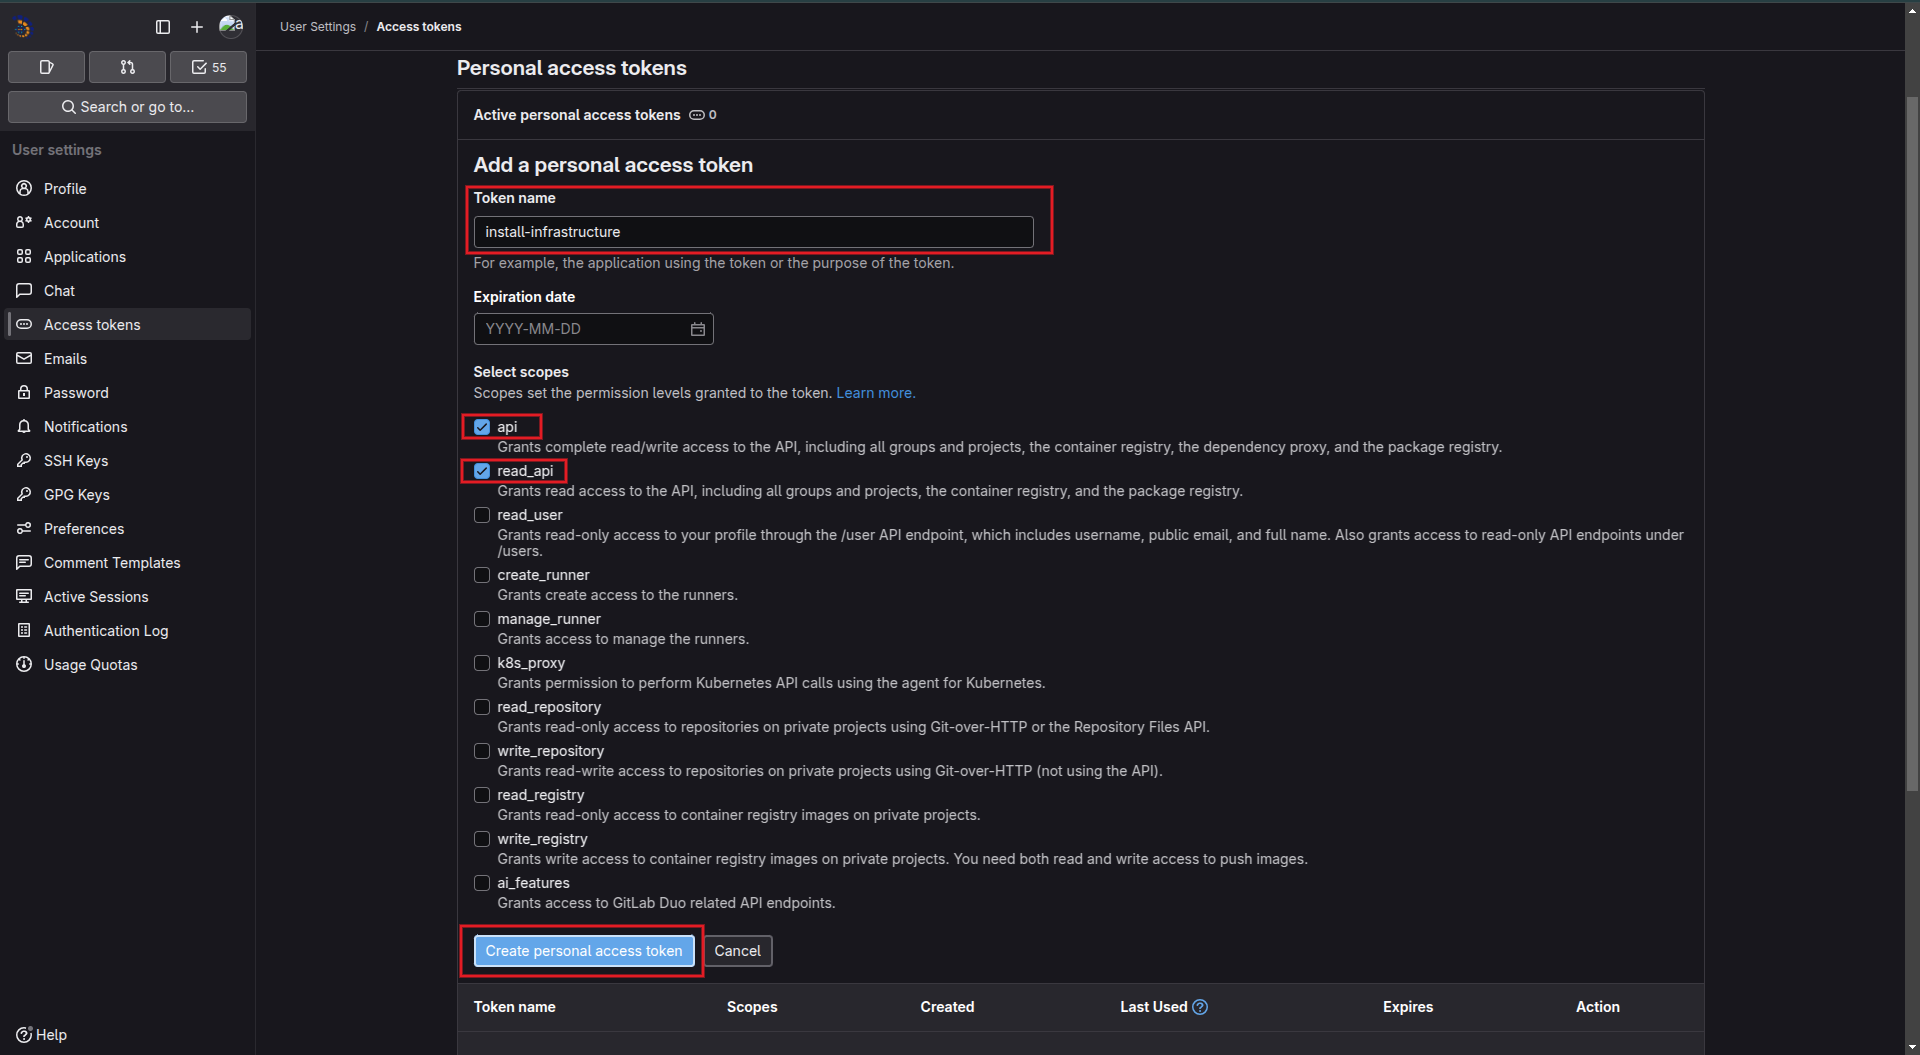
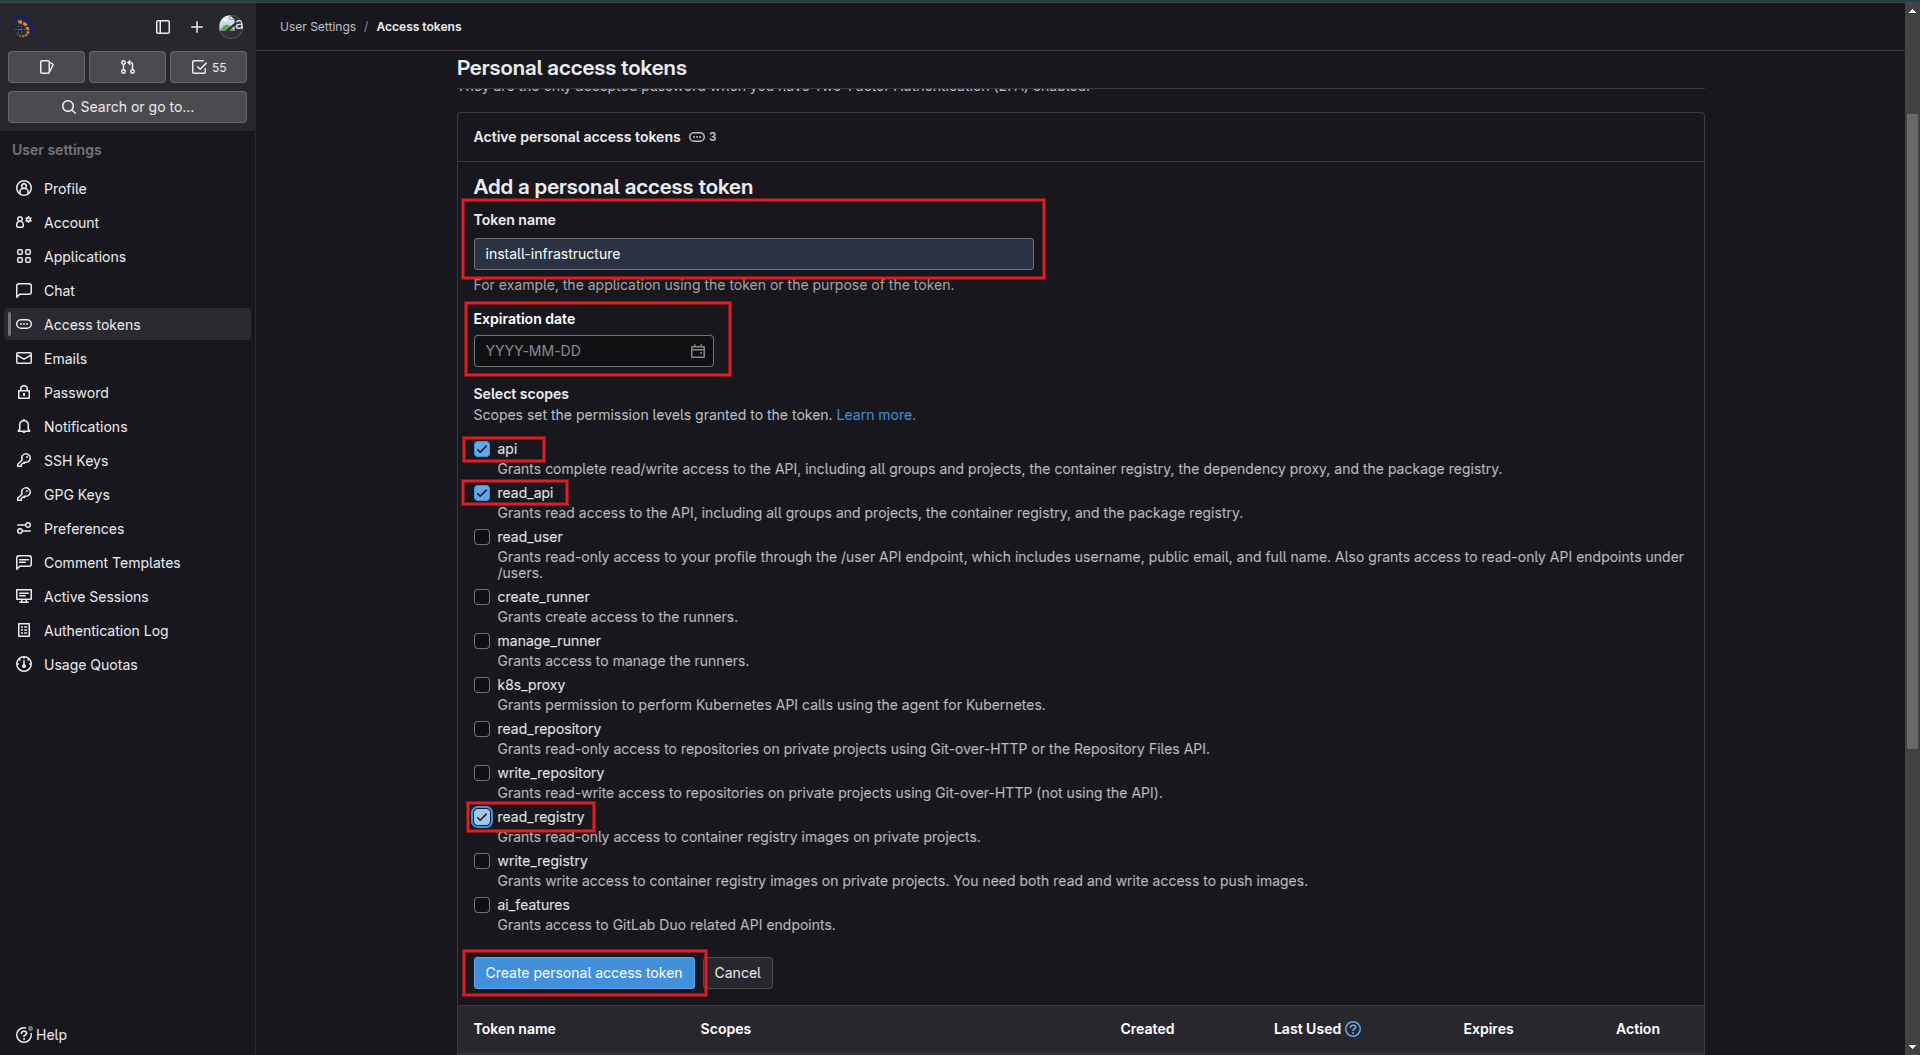
last commit

diff --git a/change-registry-gitlab.md b/change-registry-gitlab.md
@@ -21,7 +21,7 @@
 
  مقدار **Expiration date** را خالی کنید.  
 
- گزینههای **api** و **read_api** را فعال نمایید.  
+ گزینههای **api** و **read_api** و **read_registry** را فعال نمایید.  
 
  سپس روی دکمهی **Create personal access token** کلیک کنید.  
 
